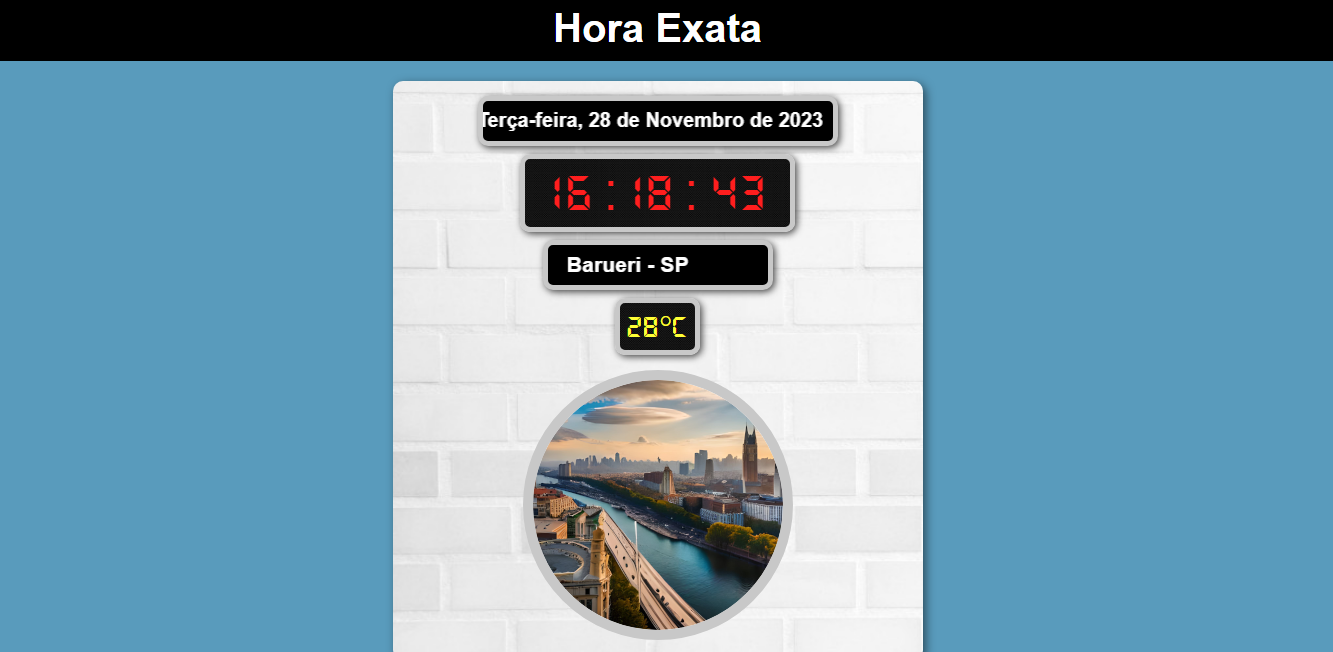
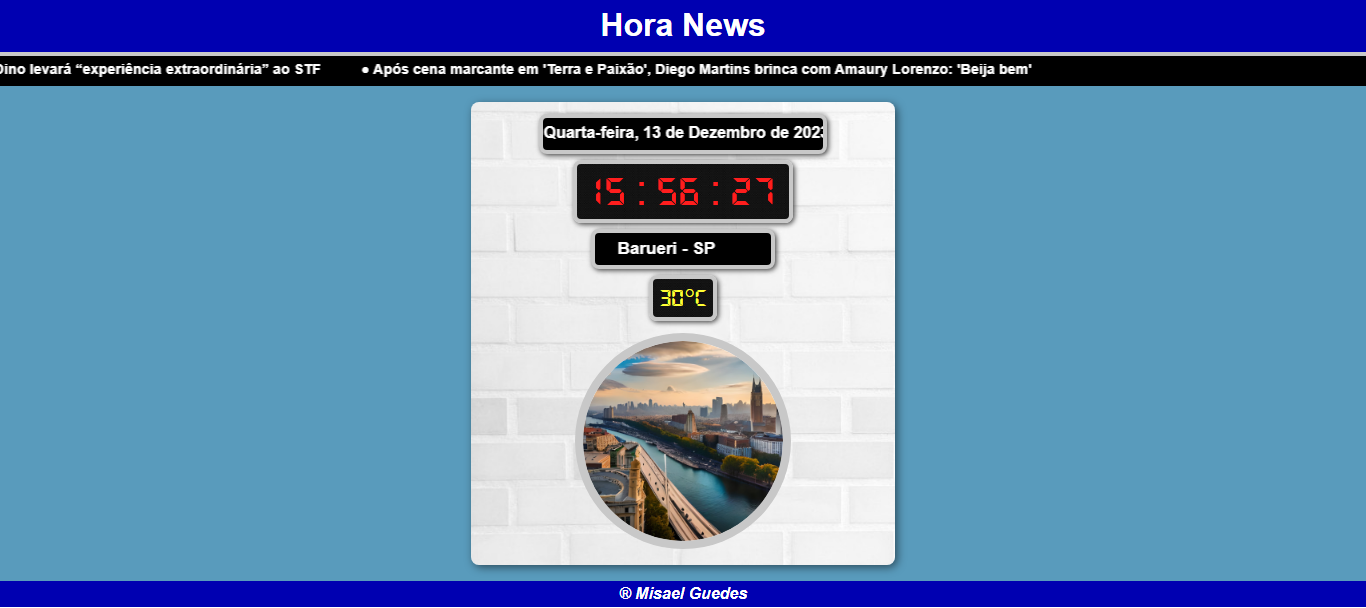
Atualizando a descrição do README

diff --git a/README.md b/README.md
@@ -3,7 +3,7 @@
 </p>
 
 ## 🖥 Projeto
-Este site simples foi criado para exibir a data, a hora, a localização e o clima atual de forma fácil e intuitiva.
+Este site simples foi criado para exibir a data, a hora, a localização e o clima atual de forma fácil e intuitiva. Além disso, disponibiliza as principais notícias do dia para manter os usuários atualizados.
 
 ## 🚀 Tecnologia Utilizada
 O projeto foi desenvolvido utilizando a seguinte tecnologia:
